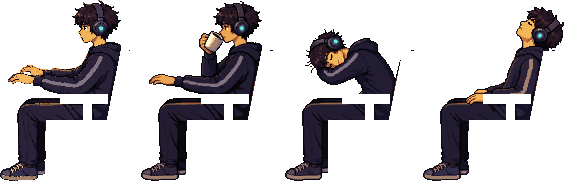
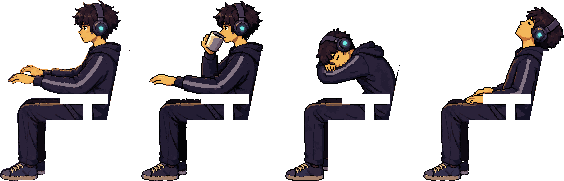
art(D): drink, rest and lean regenerated from the sharp crop

diff --git a/ArtLab/type-d-capsule/cut_layers.py b/ArtLab/type-d-capsule/cut_layers.py
@@ -143,7 +143,10 @@ def chair_part(x, y):            # crop coordinates
     return back or seat_base or armrest(x, y)
 def armrest(x, y):
     return (66 <= x < 114 and 101 <= y < 111) or (89 <= x < 98 and 111 <= y < 127)
-cuts = {p: pngio.read(os.path.join(RAW, f"boy-{p}-cut.png")) for p in POSES}
+# Drink, rest and lean were regenerated from the sharp study crop; the soft first versions stay in raw/.
+CUT_FILES = {"study": "boy-study-cut.png", "drink": "boy-drink-cut-sharp.png", "rest": "boy-rest-cut-sharp.png",
+             "lean": "boy-lean-cut-sharp.png"}
+cuts = {p: pngio.read(os.path.join(RAW, CUT_FILES[p])) for p in POSES}
 # The study pose has a sharper source: the user's full-size image shrunk by majority colour per block
 # (raw/boy-study-crop-sharp.png, same 160x200 crop). Use its colours under the cut's shape.
 sharp = pngio.read(os.path.join(RAW, "boy-study-crop-sharp.png"))

diff --git a/ArtLab/type-d-capsule/prompts.md b/ArtLab/type-d-capsule/prompts.md
@@ -55,3 +55,13 @@ Room 3's prompt with two changes: the chair is "an empty office chair seen exact
 | `raw/boy-lean-cut.png` | `remove_background`, complex | `80d48a35-6469-441f-ab7e-0bd49c277c24` | used |
 | `raw/boy-sharp-0..3.png` | `correct_pixelart`, strength 0.25, on the four boy frames | `bd24f30d-8c05-4d24-9984-3fa77350796c` | not used: barely changed, added ~3,000 near-duplicate colours |
 | `raw/boy-study-crop-sharp.png` | none (free): the user's full-size image shrunk by majority colour per block, snapped to room 3a's palette | — | used for the study frame and the chair |
+
+## Poses regenerated from the sharp crop — 2026-11-24 (6 generations)
+
+Same prompts as before, plus "Keep the crisp pixel art with dark outlines", on `raw/boy-study-crop-sharp.png`. The soft first versions stay in `raw/`.
+
+| Pose | Edit job | Drift (noise ≈ 20) | Cut-out job | Files |
+|---|---|---|---|---|
+| drink | `357a017f-7dd3-4373-b6c3-4dc14f7497ee` | 15.5 | `8b283029-b460-42b1-8c5c-37cac51eb1e0` | `boy-drink-crop-sharp.png`, `boy-drink-cut-sharp.png` |
+| rest | `8a3a2039-c051-41c9-b47c-d34d82cc6838` | 25.2 | `50134808-af72-4335-b88f-676307e3d02c` | `boy-rest-crop-sharp.png`, `boy-rest-cut-sharp.png` |
+| lean | `580cefd9-098d-402b-9600-9d491f7e0034` | 7.6 | `19d4044c-828d-4fff-b6c5-f99a309e1fbb` | `boy-lean-crop-sharp.png`, `boy-lean-cut-sharp.png` |

diff --git a/docs/logs/art-D-capsule.md b/docs/logs/art-D-capsule.md
@@ -118,3 +118,7 @@ An automatic cut by difference doesn't work: the user's image is a re-render, so
 - **Lean** replaces stretch: leaning back, head tilted up, hands on his lap. He stays in profile (drift 12). Routine weight 1, cooldown 900 s, 3 s long, like set A's stretch. The armrest (foreground) passes in front of his hand.
 - **Sharpness** (the user: "the boy is not that sharp"): the source image is high-resolution art that was scaled down with blending. PixelLab `correct_pixelart` barely helped. Shrinking the original by majority colour per 3×3 block instead gives dark outlines and clear eyes and hands, so the study frame and the chair now come from that (free). Drink, rest and lean were generated from the soft crop and stay softer; regenerating them from the sharp crop would cost about 6 generations (3 edits, 3 cut-outs).
 - `Executed 133 tests, with 0 failures` on the iPad.
+
+## All poses sharp (2026-11-24, 6 generations)
+
+Drink, rest and lean were regenerated from the sharp study crop and cut out again, so all four frames now have the same crisp outlines. They are still consistent with the study pose (drift 8–25). In the rest pose the lamp's light on the wall shows behind his lowered head; that is the room, not the sprite. `Executed 133 tests, with 0 failures` on the iPad. Preview: `build/art/d-poses-final.png`.

diff --git a/CLAUDE.md b/CLAUDE.md
@@ -177,7 +177,7 @@ Open, in no fixed order; start one only with the user's go-ahead:
 - Art set A stand-ins still left: day rooms and day city views (PixelLab generations needed). More cat animation (the user asked to keep it for later).
 - M4: energy measurement on the iPad (never done; no power claims until it is), power tuning, polish.
 - Not tried on the device: Low Power Mode, VoiceOver, airplane-mode launch, Spotify signed out or not installed.
-- Art direction B/C/D (`docs/ART_SETS.md`). Set D next: sharper drink/rest/lean poses, rain, day art, music skin, girl.
+- Art direction B/C/D (`docs/ART_SETS.md`). Set D next: rain, day art, music skin, girl.
 - Idea, not started: move the music player into a room object (cassette deck or radio on the sill or shelf) that opens the readable player when tapped (`docs/logs/art-A-lofi.md`, "Idea for later").
 
 Building needs `DEVELOPMENT_TEAM` and `SPOTIFY_CLIENT_ID` in the environment before `xcodegen generate` (values in `CLAUDE.local.md`), and the rain loop at `LoFiRoom/LocalAudio/rain.mp3` for the Sound settings (`docs/AUDIO.md`). All three are optional for a build: without them signing fails / the music card says Spotify is not set up / the Sound settings are hidden.
